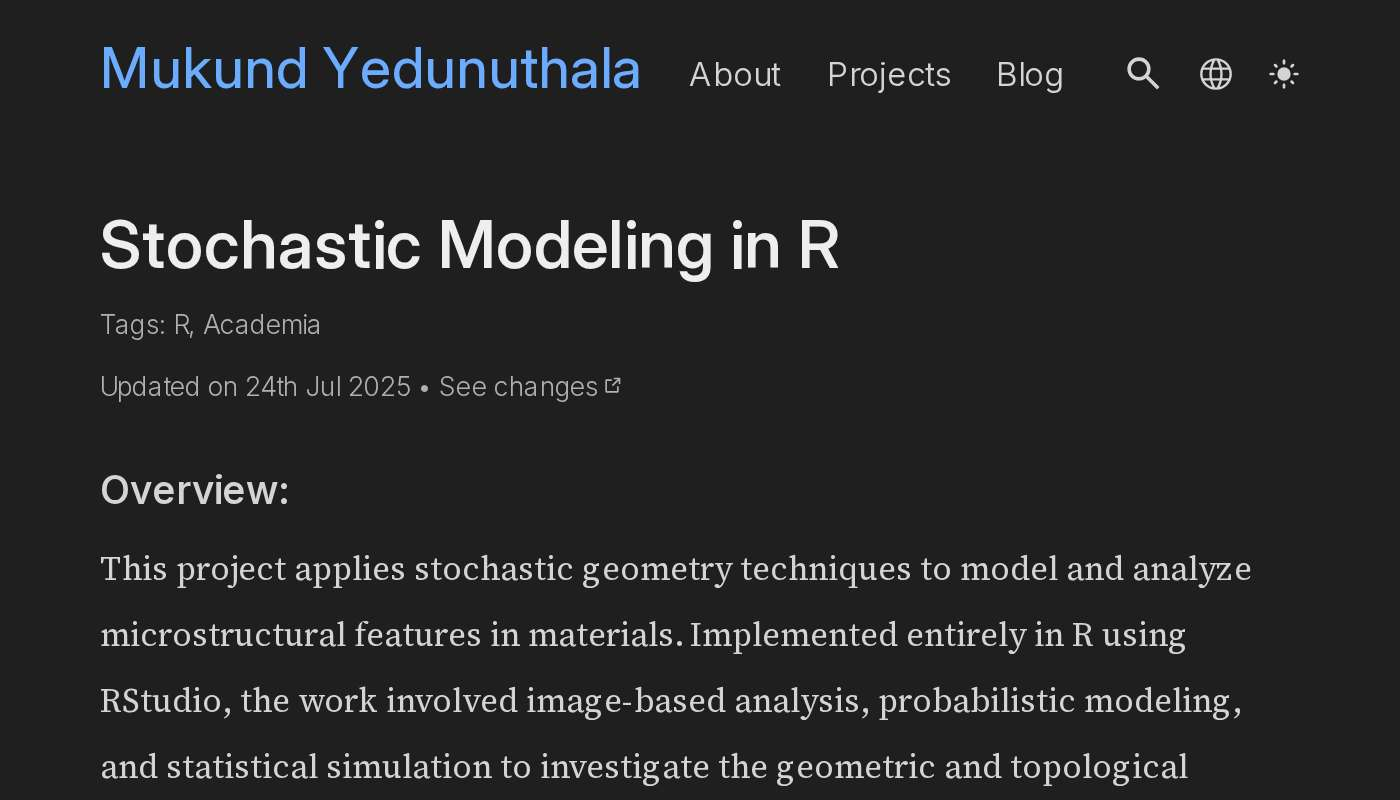
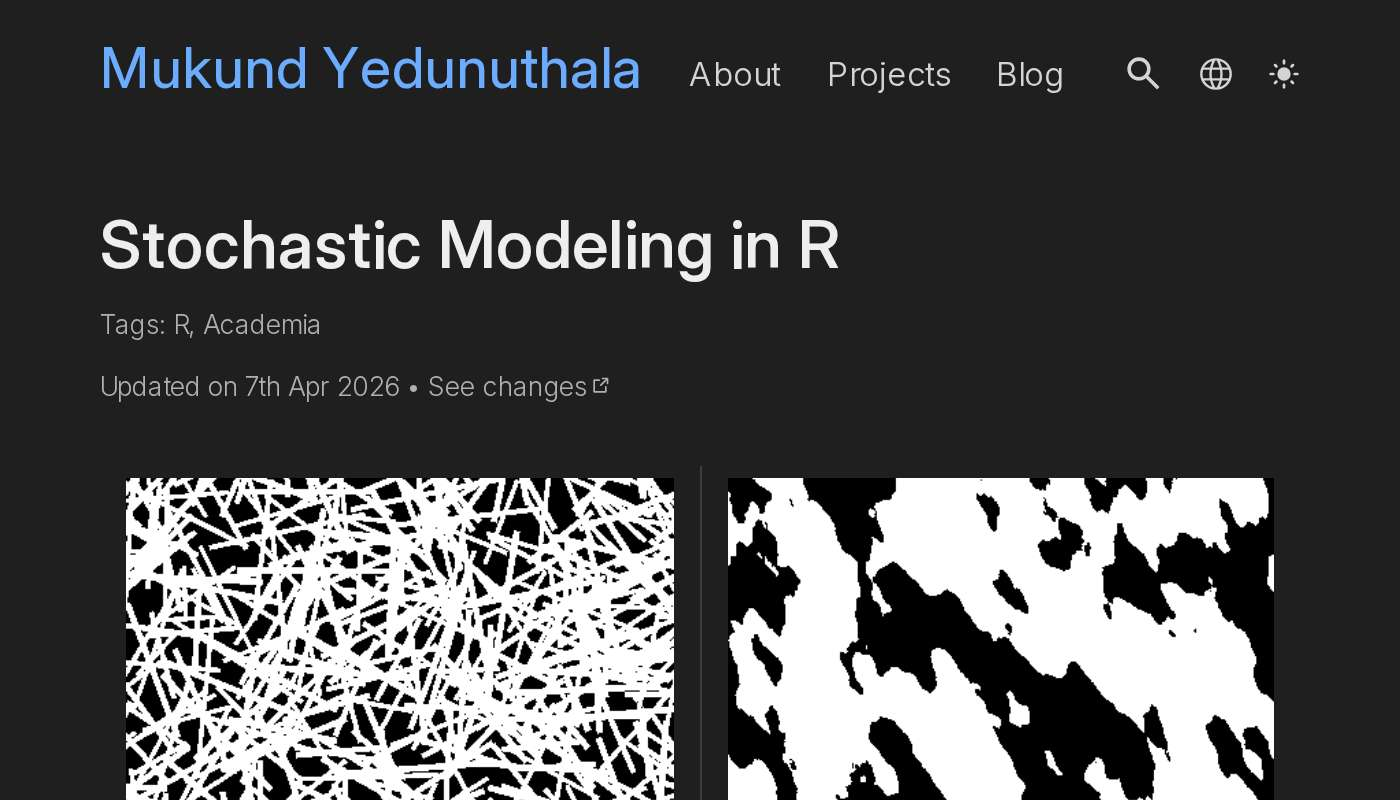
chore: update content in stochastic-methods

diff --git a/content/projects/stochastic-methods/index.md b/content/projects/stochastic-methods/index.md
@@ -1,8 +1,8 @@
 +++
 title = "Stochastic Modeling in R"
-description = "This study explores stochastic modeling techniques in the context of materials science, using R and RStudio for implementation."
+description = "This ensemble study explores stochastic modeling techniques in the context of materials science, using R and RStudio for implementation."
 date = 2021-03-21
-updated = 2025-07-24
+updated = 2026-04-07
 weight = 4
 author = "Mukund Yedunuthala"
 [taxonomies]
@@ -13,41 +13,80 @@ local_image = "projects/stochastic-methods/img/stc-methd.png"
 show_remote_changes = true
 social_media_card = "img/social_cards/projects_stochastic_methods.jpg"
 +++
+<table>
+  <tr>
+    <td><img src="https://gitlab.com/mukund-yedunuthala/stome-project-ws2020/-/raw/master/image1_09.png?ref_type=heads&inline=true" alt="" width="360"></td>
+    <td><img src="https://gitlab.com/mukund-yedunuthala/stome-project-ws2020/-/raw/master/image2_09.png?ref_type=heads&inline=true" alt="" width="360"></td>
+  </tr>
+</table>
+<div align="center">
+    <p><em>Fig. 1: 2D random set distributions resembling microstructures</em></p>
+</div>
+This ensemble study explores stochastic modeling techniques in the context of materials science, using R and RStudio for implementation.
+## Overview
 
-### Overview:
+This programming project explores applications of stochastic geometry techniques to model and analyse features resembling microstructures of materials. The emphasis lies on implementation in R and best practices of developing such models using RStudio. This work involves image-based analysis, probabilistic modeling, and statistical simulation to investigate the geometric and topological properties of random material structures. This ensemble consists of 4 tasks:
+- Morphological Analysis Using Minkowski Functionals,
+- Morphological Openings and Boolean Model Evaluation,
+- Wicksell’s corpuscle problem, and
+- Monte Carlo Estimation of Quermass Densities.
 
-This project applies stochastic geometry techniques to model and analyze microstructural features in materials. Implemented entirely in R using RStudio, the work involved image-based analysis, probabilistic modeling, and statistical simulation to investigate the geometric and topological properties of random material structures.
+This project was a part of the course module "Stochastic methods for material scientists" in TU Bergakademie Freiberg. The project was expected to be delivered within 2 weeks, and without any assistance from productivity enhancement tools. It was intended to be an entry point to stochastic modeling and R programming language. 
 
-#### Key Contributions:
+## Tasks
 
-🔹 Task 1: Morphological Analysis Using Minkowski Functionals
-- Analyzed 2D realizations of random sets.
-- Applied Minkowski functionals (area, perimeter, Euler characteristic) to characterize structural complexity.
-- Compared connectivity and homogeneity across different random set realizations.
+**Morphological analysis using Minkowski functionals**: Given realizations of 2D sets which are similar in shape to microstructures of materials, and are of compact, non-convex sets, the task was to evaluate Minkowski functionals (area, perimeter, Euler characteristic) using R and perform a comparative analysis with appropriate plots. This exercise is intended to explain the characteristics of structural complexity by comparing connectivity and homogeneity across different random set realizations.
 
-🔹 Task 2: Morphological Openings and Boolean Model Evaluation
-- Performed morphological openings to estimate shortest side lengths in grain-like structures.
-- Proposed and validated two Boolean models using global envelope tests with 999 repetitions.
-- Both models showed acceptable fit with p-values of 0.312 and 0.514.
+**Morphological openings and Boolean model evaluation**: This two-part task is a part of microstructure characterization pipeline. First, morphological openings are applied to a random 2D set similar to those described earlier. By iteratively increasing the size of a disc-shaped structuring element, the image is effectively 'filtered'. Upon realization of physical scale of features, a boolean model is constructed where objects are placed at random locations. To ensure that the model is a valid representation, Monte Carlo simulations are performed. The intention is to introduce the idea that a combination of these techniques could be used to predict material behaviour under different conditions. 
 
-🔹 Task 3: Wicksell Corpuscle Inverse Problem
-- Used segmentation algorithms on 2D slices to infer 3D grain size distributions.
-- Estimated volume fraction, specific surface area, and intensity of spherical inclusions.
-- Provided statistical summaries and visualizations of the diameter distributions.
+**Wicksell’s corpuscle problem**: Wicksell’s corpuscle problem (formulated by Sven Wicksell in 1925) asks: **"If we have a volume containing spheres of unknown sizes, and we take a random 2D slice, can we determine the size distribution of the 3D spheres based only on the 2D circles we see?"** The task is to demonstrate **Saltykov method**, which is a discrete numerical solution to the **Abel-type integral equation** that Wicksell derived. 
 
-🔹 Task 4: Monte Carlo Estimation of Quermass Densities
-- Simulated Matern III hard-disc models with varying Poisson intensities.
-- Computed Quermass densities (area fraction, boundary length, Euler number) using Monte Carlo methods.
-- Identified systematic increases in structural metrics with higher intensities.
+<div align="center">
+  <img src="https://gitlab.com/mukund-yedunuthala/stome-project-ws2020/-/raw/master/image3_09.png?ref_type=heads" alt="Wicksell’s corpuscle problem image" width="300">
+  <p><em>Fig. 2: Wicksell’s corpuscle problem image</em></p>
+</div>
 
-### Tools & Techniques:
+**Monte Carlo estimation of Quermass densities**: The idea is to conduct a **Monte Carlo study** to estimate the **Quermass densities**: the area fraction, boundary length, and Euler characteristic. By varying the underlying Poisson intensity (λ), the statistical 'crowding' of particles impacts the bulk geometric properties of the material was quantified. Box plots and **standard deviation analysis** were used to assess the precision of these geometric estimators, which is critical for determining how many image samples are needed to get a reliable measurement of a real material's microstructure. The analysis was performed over **Matérn Type III Hard-Disc Model** to simulate realistic, non-overlapping particle distributions.
+
+## Tools & Techniques
+
 - R & RStudio
 - `spatstat`, `EBImage`, `ggplot2`, `dplyr`, `stats`
-- Morphological Image Processing
-- Stochastic Modeling (Boolean and Matern Processes)
-- Monte Carlo Simulations
-- Global Envelope Testing
 
-#### Outcome:
+## Outcome
 
 The project successfully demonstrates the potential of stochastic methods and spatial statistics, implemented in R, to quantify and interpret complex structural behaviors in random materials. This provides a foundation for predictive modeling and digital material design workflows.
+<div align="center">
+  <img src="https://gitlab.com/mukund-yedunuthala/stome-project-ws2020/-/raw/master/task01/01_01_all.png?ref_type=heads" alt="Cluster of images showing plots of Minkowski functions for a 2D random set distribution" width="500">
+  <p><em>Fig. 3: Morphological analysis using Minkowski functionals</em></p>
+</div>
+<table>
+  <tr>
+    <td align="center">
+      <b>Original Image</b><br>
+      <img src="https://gitlab.com/mukund-yedunuthala/stome-project-ws2020/-/raw/master/task02/02_a1.png" width="100%">
+    </td>
+    <td align="center">
+      <b>After 1 application cycle</b><br>
+      <img src="https://gitlab.com/mukund-yedunuthala/stome-project-ws2020/-/raw/master/task02/02_a2.png" width="100%">
+    </td>
+  </tr>
+  <tr>
+    <td align="center">
+      <b>After 2 cycles</b><br>
+      <img src="https://gitlab.com/mukund-yedunuthala/stome-project-ws2020/-/raw/master/task02/02_a3.png" width="100%">
+    </td>
+    <td align="center">
+      <b>After 3 cycles</b><br>
+      <img src="https://gitlab.com/mukund-yedunuthala/stome-project-ws2020/-/raw/master/task02/02_a4.png" width="100%">
+    </td>
+  </tr>
+</table>
+<div align="center">
+ <p><em>Fig. 4: Progression of Morphological openings</em></p>
+</div>
+
+
+## Links
+
+Source code: [GitLab](https://gitlab.com/mukund-yedunuthala/stome-project-ws2020)

diff --git a/content/projects/stochastic-methods/index.de.md b/content/projects/stochastic-methods/index.de.md
@@ -1,9 +1,10 @@
 +++
 title = "Stochastic Modeling in R"
-description = "This study explores stochastic modeling techniques in the context of materials science, using R and RStudio for implementation."
+description = "This ensemble study explores stochastic modeling techniques in the context of materials science, using R and RStudio for implementation."
 date = 2021-03-21
-updated = 2025-07-24
+updated = 2026-04-07
 weight = 4
+author = "Mukund Yedunuthala"
 
 [taxonomies]
 tags = ["R", "Academia"]
@@ -14,40 +15,80 @@ show_remote_changes = true
 social_media_card = "img/social_cards/de_projects_stochastic_methods.jpg"
 +++
 
-### Overview:
+<table>
+  <tr>
+    <td><img src="https://gitlab.com/mukund-yedunuthala/stome-project-ws2020/-/raw/master/image1_09.png?ref_type=heads&inline=true" alt="" width="360"></td>
+    <td><img src="https://gitlab.com/mukund-yedunuthala/stome-project-ws2020/-/raw/master/image2_09.png?ref_type=heads&inline=true" alt="" width="360"></td>
+  </tr>
+</table>
+<div align="center">
+    <p><em>Fig. 1: 2D random set distributions resembling microstructures</em></p>
+</div>
+This ensemble study explores stochastic modeling techniques in the context of materials science, using R and RStudio for implementation.
+## Overview
 
-This project applies stochastic geometry techniques to model and analyze microstructural features in materials. Implemented entirely in R using RStudio, the work involved image-based analysis, probabilistic modeling, and statistical simulation to investigate the geometric and topological properties of random material structures.
+This programming project explores applications of stochastic geometry techniques to model and analyse features resembling microstructures of materials. The emphasis lies on implementation in R and best practices of developing such models using RStudio. This work involves image-based analysis, probabilistic modeling, and statistical simulation to investigate the geometric and topological properties of random material structures. This ensemble consists of 4 tasks:
+- Morphological Analysis Using Minkowski Functionals,
+- Morphological Openings and Boolean Model Evaluation,
+- Wicksell’s corpuscle problem, and
+- Monte Carlo Estimation of Quermass Densities.
 
-#### Key Contributions:
+This project was a part of the course module "Stochastic methods for material scientists" in TU Bergakademie Freiberg. The project was expected to be delivered within 2 weeks, and without any assistance from productivity enhancement tools. It was intended to be an entry point to stochastic modeling and R programming language. 
 
-🔹 Task 1: Morphological Analysis Using Minkowski Functionals
-- Analyzed 2D realizations of random sets.
-- Applied Minkowski functionals (area, perimeter, Euler characteristic) to characterize structural complexity.
-- Compared connectivity and homogeneity across different random set realizations.
+## Tasks
 
-🔹 Task 2: Morphological Openings and Boolean Model Evaluation
-- Performed morphological openings to estimate shortest side lengths in grain-like structures.
-- Proposed and validated two Boolean models using global envelope tests with 999 repetitions.
-- Both models showed acceptable fit with p-values of 0.312 and 0.514.
+**Morphological analysis using Minkowski functionals**: Given realizations of 2D sets which are similar in shape to microstructures of materials, and are of compact, non-convex sets, the task was to evaluate Minkowski functionals (area, perimeter, Euler characteristic) using R and perform a comparative analysis with appropriate plots. This exercise is intended to explain the characteristics of structural complexity by comparing connectivity and homogeneity across different random set realizations.
 
-🔹 Task 3: Wicksell Corpuscle Inverse Problem
-- Used segmentation algorithms on 2D slices to infer 3D grain size distributions.
-- Estimated volume fraction, specific surface area, and intensity of spherical inclusions.
-- Provided statistical summaries and visualizations of the diameter distributions.
+**Morphological openings and Boolean model evaluation**: This two-part task is a part of microstructure characterization pipeline. First, morphological openings are applied to a random 2D set similar to those described earlier. By iteratively increasing the size of a disc-shaped structuring element, the image is effectively 'filtered'. Upon realization of physical scale of features, a boolean model is constructed where objects are placed at random locations. To ensure that the model is a valid representation, Monte Carlo simulations are performed. The intention is to introduce the idea that a combination of these techniques could be used to predict material behaviour under different conditions. 
 
-🔹 Task 4: Monte Carlo Estimation of Quermass Densities
-- Simulated Matern III hard-disc models with varying Poisson intensities.
-- Computed Quermass densities (area fraction, boundary length, Euler number) using Monte Carlo methods.
-- Identified systematic increases in structural metrics with higher intensities.
+**Wicksell’s corpuscle problem**: Wicksell’s corpuscle problem (formulated by Sven Wicksell in 1925) asks: **"If we have a volume containing spheres of unknown sizes, and we take a random 2D slice, can we determine the size distribution of the 3D spheres based only on the 2D circles we see?"** The task is to demonstrate **Saltykov method**, which is a discrete numerical solution to the **Abel-type integral equation** that Wicksell derived. 
 
-### Tools & Techniques:
+<div align="center">
+  <img src="https://gitlab.com/mukund-yedunuthala/stome-project-ws2020/-/raw/master/image3_09.png?ref_type=heads" alt="Wicksell’s corpuscle problem image" width="300">
+  <p><em>Fig. 2: Wicksell’s corpuscle problem image</em></p>
+</div>
+
+**Monte Carlo estimation of Quermass densities**: The idea is to conduct a **Monte Carlo study** to estimate the **Quermass densities**: the area fraction, boundary length, and Euler characteristic. By varying the underlying Poisson intensity (λ), the statistical 'crowding' of particles impacts the bulk geometric properties of the material was quantified. Box plots and **standard deviation analysis** were used to assess the precision of these geometric estimators, which is critical for determining how many image samples are needed to get a reliable measurement of a real material's microstructure. The analysis was performed over **Matérn Type III Hard-Disc Model** to simulate realistic, non-overlapping particle distributions.
+
+## Tools & Techniques
+
 - R & RStudio
 - `spatstat`, `EBImage`, `ggplot2`, `dplyr`, `stats`
-- Morphological Image Processing
-- Stochastic Modeling (Boolean and Matern Processes)
-- Monte Carlo Simulations
-- Global Envelope Testing
 
-#### Outcome:
+## Outcome
 
 The project successfully demonstrates the potential of stochastic methods and spatial statistics, implemented in R, to quantify and interpret complex structural behaviors in random materials. This provides a foundation for predictive modeling and digital material design workflows.
+<div align="center">
+  <img src="https://gitlab.com/mukund-yedunuthala/stome-project-ws2020/-/raw/master/task01/01_01_all.png?ref_type=heads" alt="Cluster of images showing plots of Minkowski functions for a 2D random set distribution" width="500">
+  <p><em>Fig. 3: Morphological analysis using Minkowski functionals</em></p>
+</div>
+<table>
+  <tr>
+    <td align="center">
+      <b>Original Image</b><br>
+      <img src="https://gitlab.com/mukund-yedunuthala/stome-project-ws2020/-/raw/master/task02/02_a1.png" width="100%">
+    </td>
+    <td align="center">
+      <b>After 1 application cycle</b><br>
+      <img src="https://gitlab.com/mukund-yedunuthala/stome-project-ws2020/-/raw/master/task02/02_a2.png" width="100%">
+    </td>
+  </tr>
+  <tr>
+    <td align="center">
+      <b>After 2 cycles</b><br>
+      <img src="https://gitlab.com/mukund-yedunuthala/stome-project-ws2020/-/raw/master/task02/02_a3.png" width="100%">
+    </td>
+    <td align="center">
+      <b>After 3 cycles</b><br>
+      <img src="https://gitlab.com/mukund-yedunuthala/stome-project-ws2020/-/raw/master/task02/02_a4.png" width="100%">
+    </td>
+  </tr>
+</table>
+<div align="center">
+ <p><em>Fig. 4: Progression of Morphological openings</em></p>
+</div>
+
+
+## Links
+
+Source code: [GitLab](https://gitlab.com/mukund-yedunuthala/stome-project-ws2020)

diff --git a/content/_index.de.md b/content/_index.de.md
@@ -10,7 +10,7 @@ section_path = "blog/_index.md"
 max_posts = 2
 show_projects_first=true
 show_remote_changes = true
-social_media_card = "img/social_cards/index.jpg"
+social_media_card = "img/social_cards/de_projects.jpg"
 +++
 
 Ich habe einem Master-Abschluss in Computational Engineering von der TU Bergakademie Freiberg in Deutschland und einem Bachelor-Abschluss in Maschinenbau von der Osmania University in Indien. Ich habe Erfahrung in der Entwicklung von Hochleistungsrechnen und der Finite-Elemente-Analyse (FEA) gesammelt. Meine Schwerpunkte liegen in der Festkörpermechanik, numerischen Modellierung und ich verfüge über fundierte Kenntnisse in Fortran, Python, MATLAB und C++. Unten finden Sie eine Auswahl meiner Projekte, die zeigen, wie ich diese Fähigkeiten einsetze.
